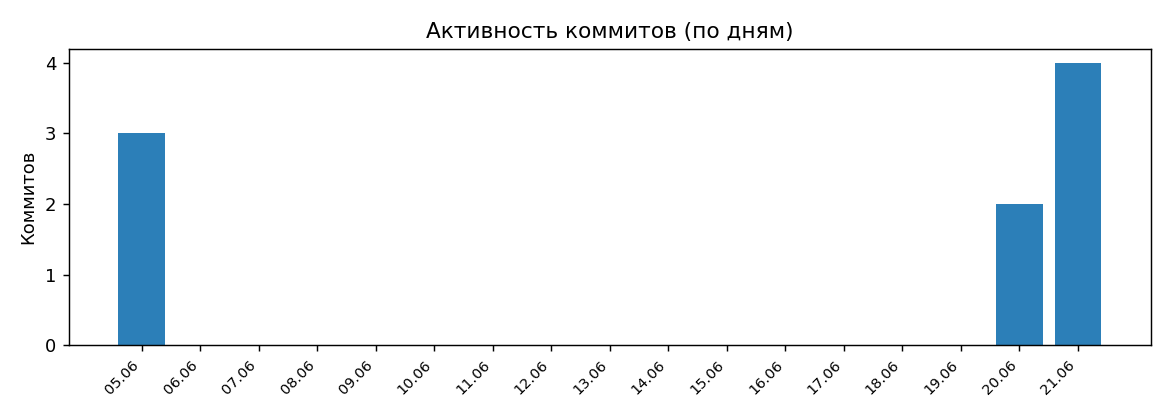
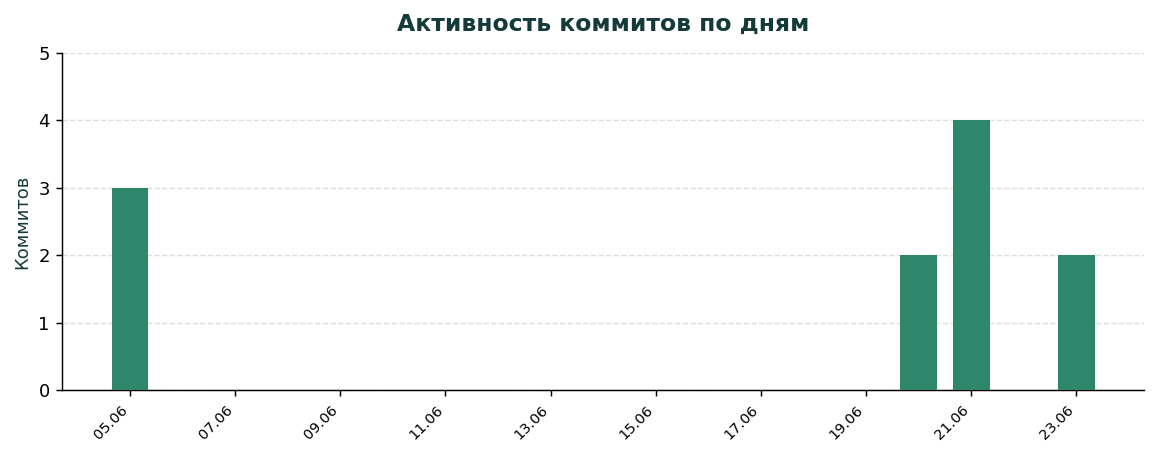
Диаграмма Ганта (PNG) и обновлённая статистика коммитов

Changed region(s): [[0.0, 0.0312, 0.9965, 0.9688], [0.1557, 0.9375, 0.1869, 0.9688], [0.0623, 0.9375, 0.0934, 0.9688]]

diff --git a/README.md b/README.md
@@ -122,9 +122,9 @@ eas build -p android --profile preview
 
 ### Метрики Git
 
-- Всего коммитов: 9
-- Период разработки: 05.06.2026 - 21.06.2026
-- Средняя частота: 3.7 коммита в неделю
+- Всего коммитов: 11
+- Период разработки: 05.06.2026 - 23.06.2026
+- Средняя частота: 4.05 коммита в неделю
 
 ### График активности
 

diff --git a/docs/12-final-report/03-gantt-chart.md b/docs/12-final-report/03-gantt-chart.md
@@ -30,6 +30,8 @@ gantt
     Этап 8. Документация и защита    :e8, after e7, 14d
 ```
 
+![Диаграмма Ганта календарного плана](images/gantt.png)
+
 ## 2. Сроки этапов
 
 | Этап | Содержание | Недели | Сроки | Вес |